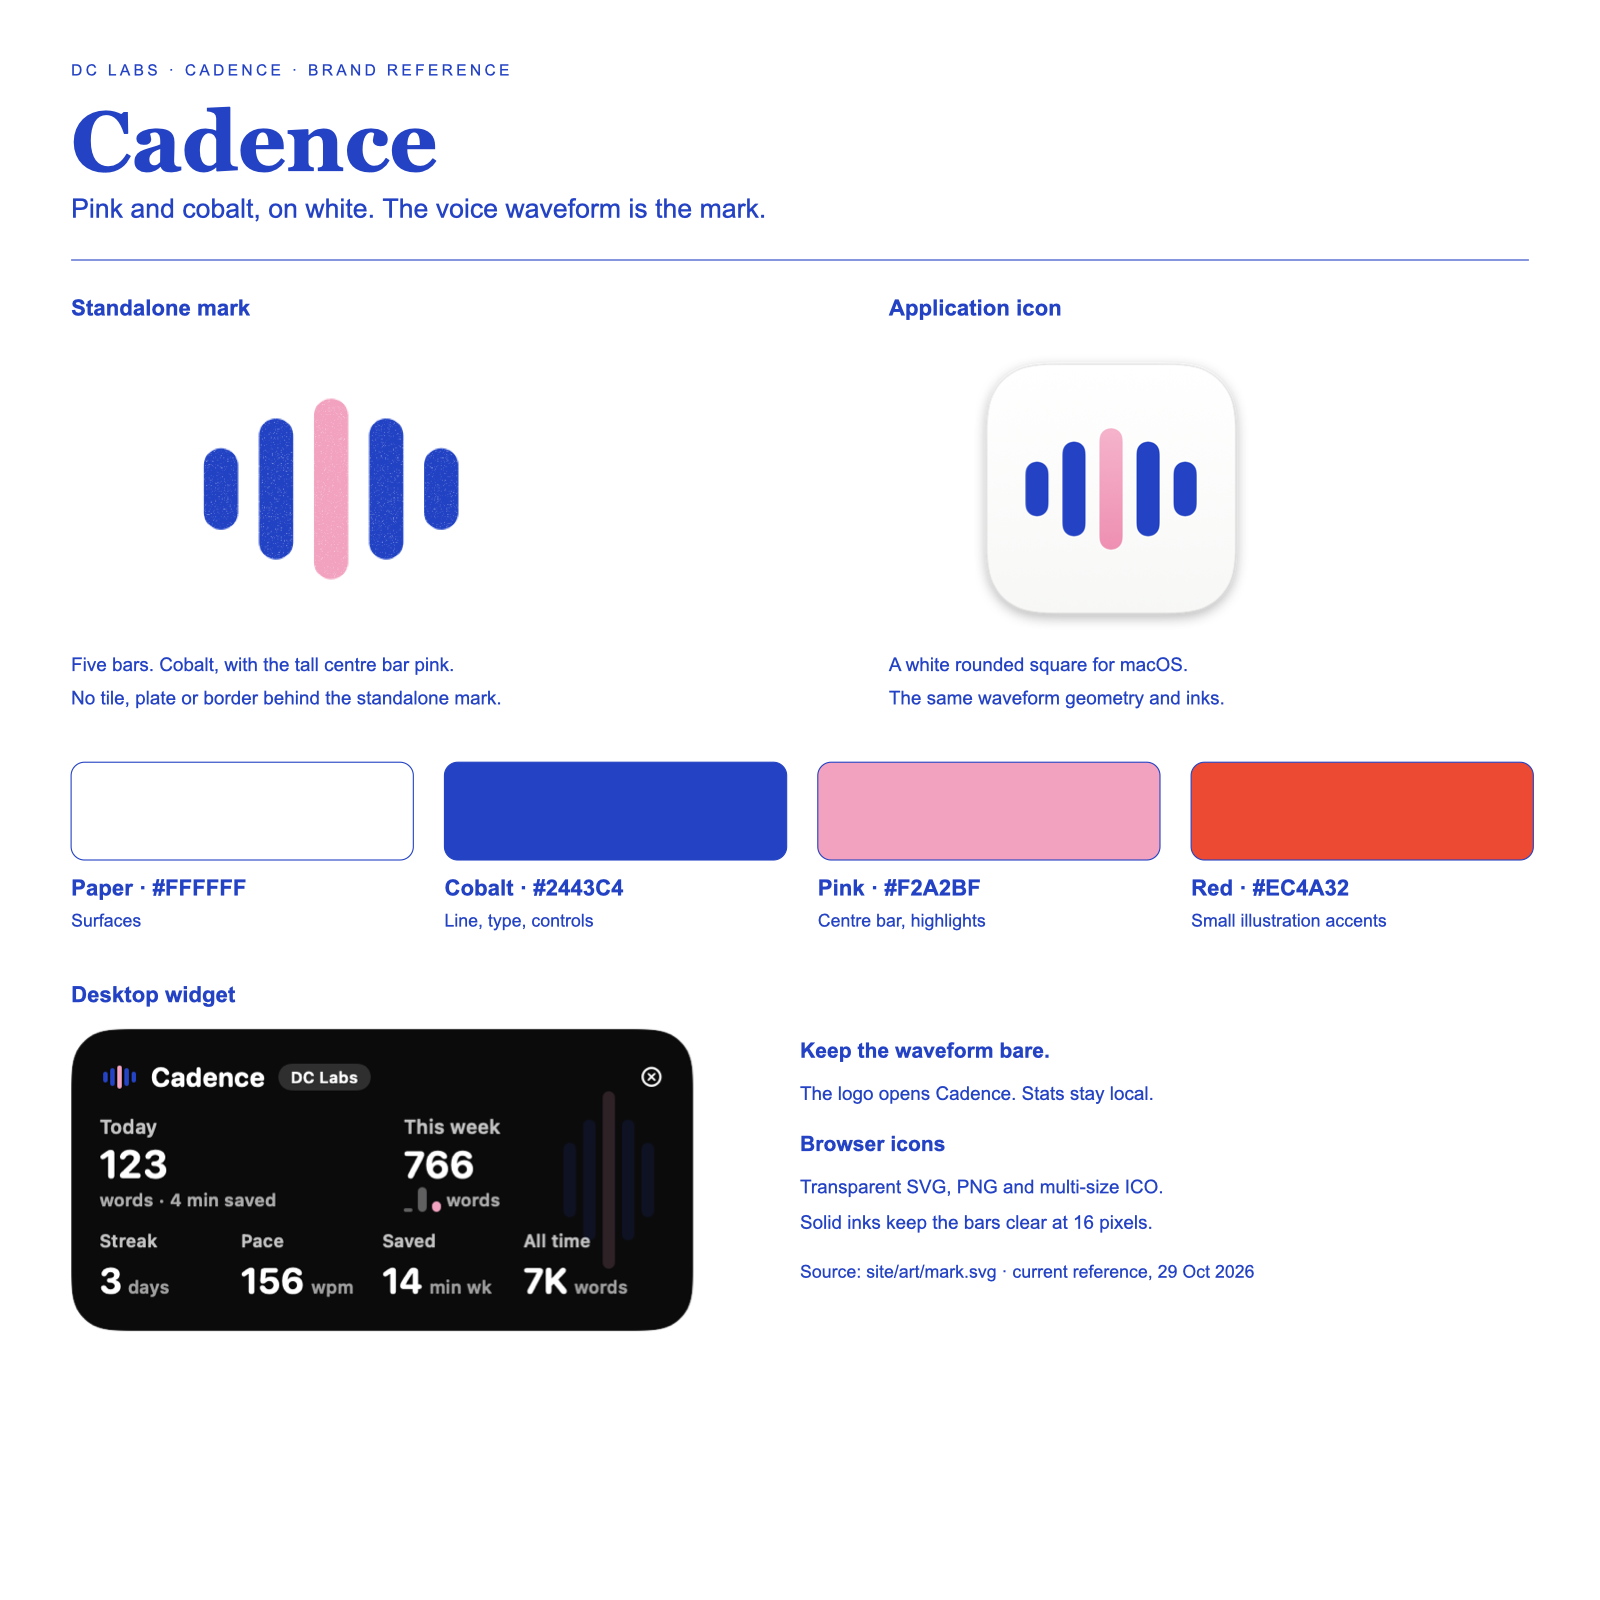
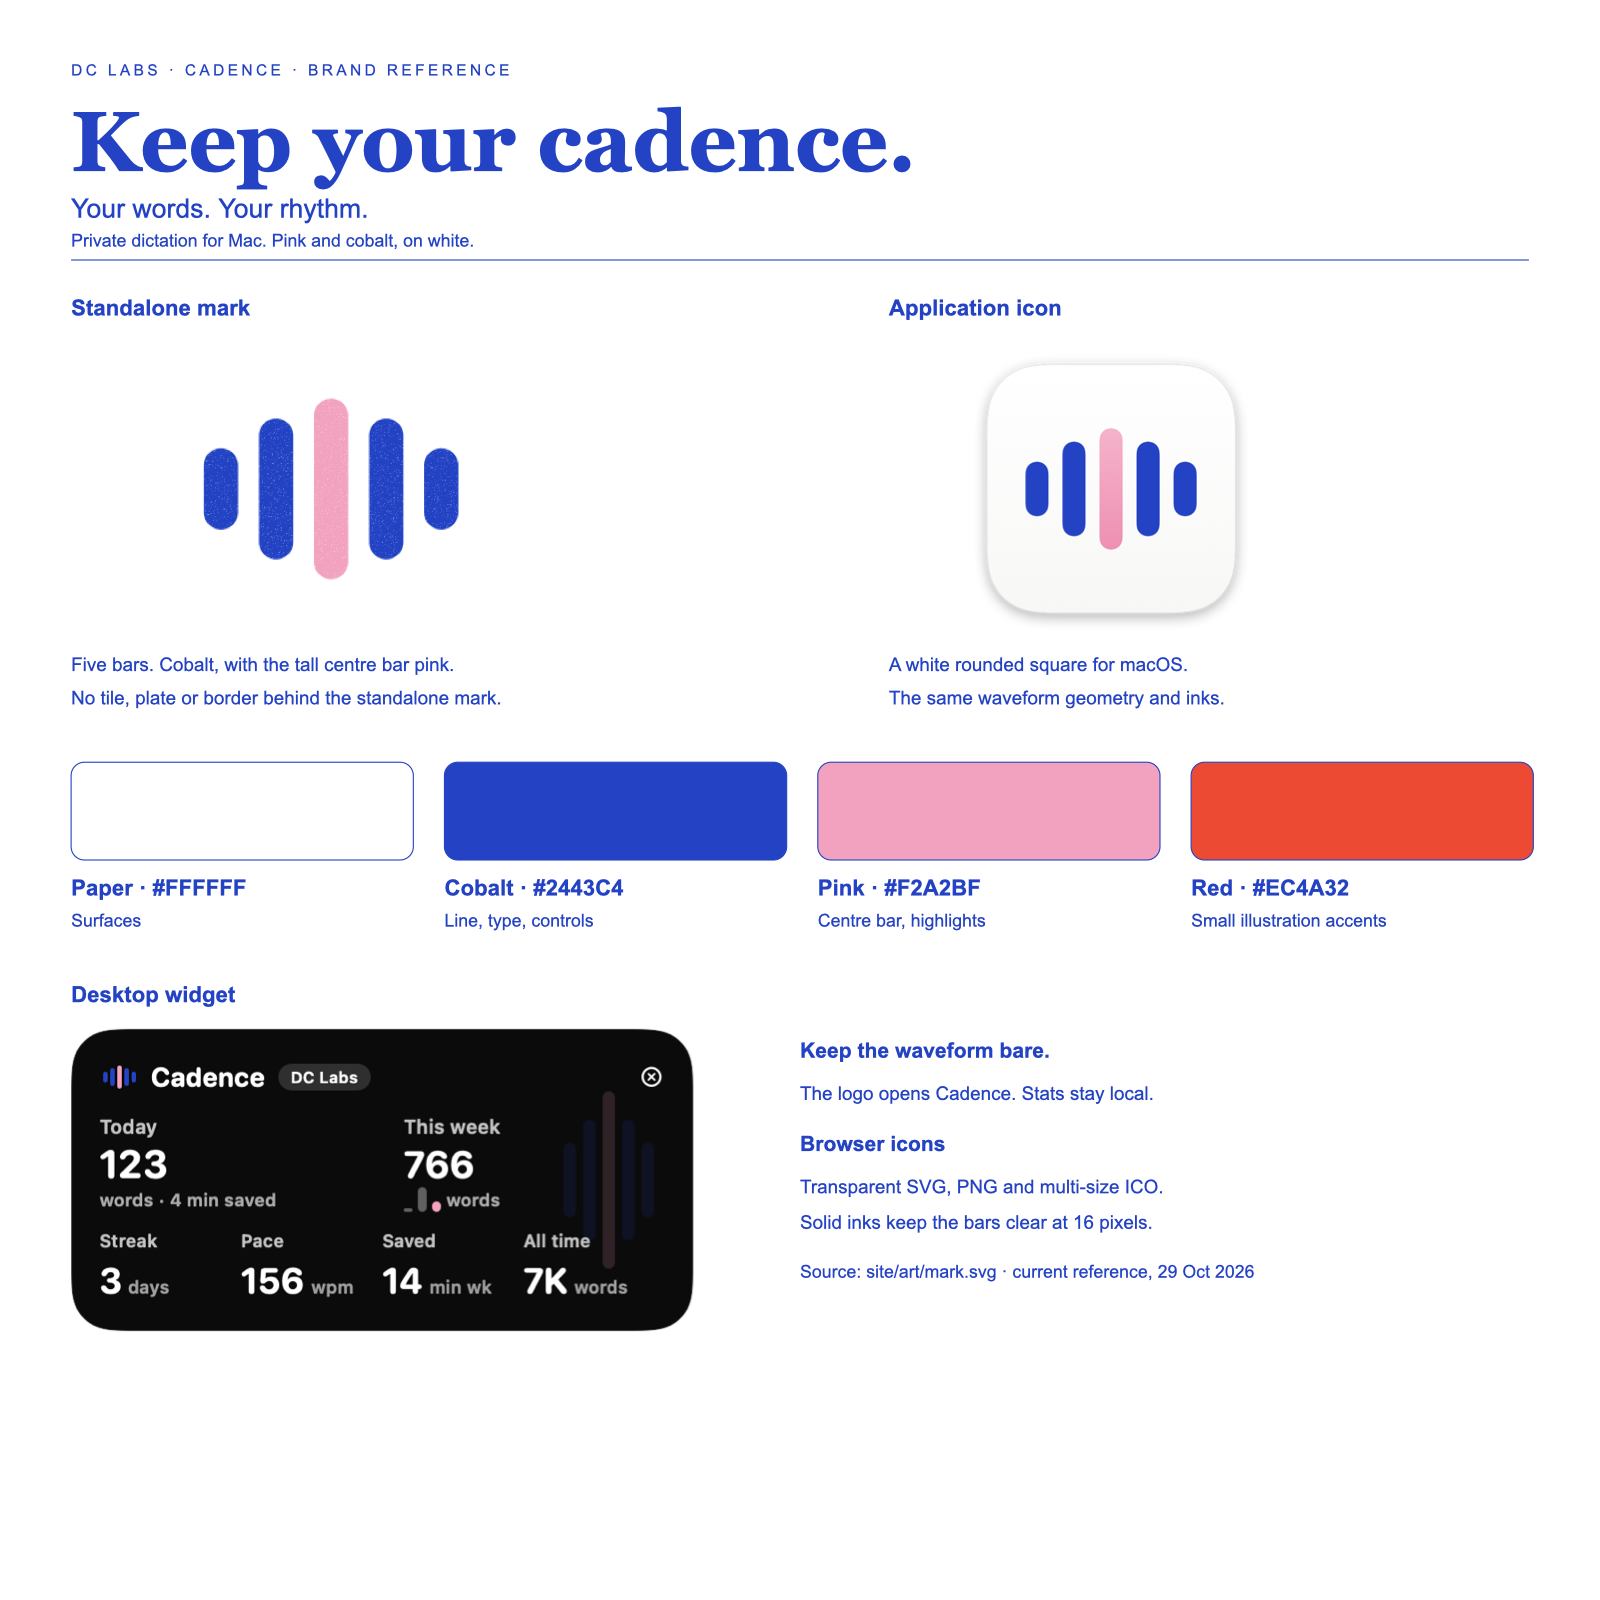
Build the Cadence voice around your words and rhythm

Changed region(s): [[0.0312, 0.0625, 0.5625, 0.1562]]

diff --git a/site/index.html b/site/index.html
@@ -3,12 +3,12 @@
 <head>
 <meta charset="utf-8">
 <meta name="viewport" content="width=device-width,initial-scale=1">
-<title>Cadence: dictation that never leaves your Mac</title>
-<meta name="description" content="Hold a key, speak, release, and the text lands wherever you're typing. Cadence transcribes on your Mac, works offline, speaks two languages and is free and open source.">
+<title>Cadence — Your words. Your rhythm.</title>
+<meta name="description" content="Your words. Your rhythm. Speak naturally and let Cadence type entirely on your Mac. Private, offline, bilingual dictation. Free and open source from DC Labs.">
 <meta name="theme-color" content="#ffffff" media="(prefers-color-scheme: light)">
 <meta name="theme-color" content="#141a3d" media="(prefers-color-scheme: dark)">
-<meta property="og:title" content="Cadence: dictation that never leaves your Mac">
-<meta property="og:description" content="On-device, offline, bilingual push-to-talk dictation for macOS. Free and open source, from DC Labs.">
+<meta property="og:title" content="Keep your cadence.">
+<meta property="og:description" content="Your words. Your rhythm. Speak naturally and let Cadence type entirely on your Mac. Private, offline, bilingual dictation. Free and open source from DC Labs.">
 <meta property="og:url" content="https://cadence-dictation.pages.dev/">
 <meta property="og:image" content="https://cadence-dictation.pages.dev/icon-512-riso-v2.png">
 <meta property="og:image:alt" content="Cadence’s cobalt waveform with a pink centre bar">
@@ -41,8 +41,8 @@
   <div class="hero-grid">
   <div class="hero-copy">
   <p class="eyebrow">DC Labs · Free &amp; open source · macOS</p>
-  <h1 id="hero-title">Speak. It types.<br><span class="circled">Nothing leaves your Mac.<svg class="scribble" viewBox="0 0 1200 600" preserveAspectRatio="none" aria-hidden="true" focusable="false"><path vector-effect="non-scaling-stroke" d="M 950 90 C 1250 300, 1050 480, 600 520 C 250 520, 150 480, 150 300 C 150 120, 350 80, 600 80 C 850 80, 950 180, 950 180"/></svg></span></h1>
-  <p class="lede">Hold a key, say what you mean, let go. Cadence turns your voice into text in whatever app you're using, transcribed entirely on your Mac. Works offline, in two languages, for free.</p>
+  <h1 id="hero-title">Keep your cadence.<br><span class="circled">Your words. Your rhythm.<svg class="scribble" viewBox="0 0 1200 600" preserveAspectRatio="none" aria-hidden="true" focusable="false"><path vector-effect="non-scaling-stroke" d="M 950 90 C 1250 300, 1050 480, 600 520 C 250 520, 150 480, 150 300 C 150 120, 350 80, 600 80 C 850 80, 950 180, 950 180"/></svg></span></h1>
+  <p class="lede">Speak naturally. Cadence turns your voice into text wherever you’re typing. Hold a key, speak, release. <strong>Nothing leaves your Mac.</strong> Works offline, in two languages, for free.</p>
   <div class="hero-actions">
     <a class="button" href="#download">Download for Mac</a>
     <a class="button ghost" href="#compare">See how it compares</a>

diff --git a/site/style.css b/site/style.css
@@ -99,7 +99,7 @@ h3 { font:700 21px/1.25 var(--serif); }
 @keyframes word { from { opacity:0; filter:blur(3px); } to { opacity:1; filter:none; } }
 @keyframes blink { 50% { opacity:0; } }
 
-/* The loop: a red pencil circle drawn once around "Nothing leaves your Mac." (stretches to the line) */
+/* The loop: a red pencil circle drawn once around "Your words. Your rhythm." (stretches to the line) */
 .hero h1 .circled { position:relative; display:inline-block; padding:.08em .22em; margin-left:-.22em; }
 .scribble { position:absolute; left:-18%; top:-34%; width:140%; height:168%; overflow:visible; pointer-events:none; }
 .scribble path { fill:none; stroke:var(--red); stroke-width:4.5px; stroke-linecap:round; stroke-linejoin:round; opacity:.92; }

diff --git a/docs/STATUS.md b/docs/STATUS.md
@@ -2,6 +2,46 @@
 
 Updated: 2026-10-29 · Phase: **1 (MVP spine)** · Blueprint: docs/CADENCE_BLUEPRINT.md
 
+## Brand voice — Keep your cadence (2026-10-29)
+
+Daniel approved **Keep your cadence.** with **Your words. Your rhythm.**
+(“yeah all of it go”). Applied the direction to the hero, page/share metadata,
+announcer ribbon, README and brand reference. The plain explanation and explicit
+“Nothing leaves your Mac” promise remain alongside the brand line.
+
+Verified: site 28/28; desktop preview and 390px/320px phone layouts inspected,
+with no horizontal overflow. This is a website/documentation update; verified
+v0.1.3 download, app branding and widget instructions remain current.
+
+## Handoff
+
+_No active handoff._
+
+## Favicon cleanup and public-download verification (2026-10-29)
+
+Completed after the quota reset. PR #59/#60 merged; main `b915874` deployed to
+`cadence-dictation`, production deployment `0f4ee3be`. All 21 public files match
+the build byte-for-byte; site 28/28 and PR CI pass. Both pages use new versioned
+cobalt/pink browser/touch/share icons. Updated brand reference no longer shows
+the obsolete boxed/red-centre mark. Existing Chrome Cadence tab was reloaded.
+
+Downloaded the actual public latest asset: v0.1.3 (5), SHA-256
[1 lines of base64/hex data omitted]
+Signature verified; bundled multilingual model matches its pin. Public app's
+appearance 10/10 and widget 16/16 pass. Pixel scans of its actual icon,
+light/dark dashboard and widget preview found no old green accents.
+
+The existing Vitals tile had one additional green element: its shared Live dot.
+Scoped it to Cadence pink (other engines keep their indicators), added four
+color checks, and confirmed a planted green regression fails. Small/Medium
+live-state renders have no green pixels. Released wow-command-center #213/#214,
+main `9079185`; production binary rebuilt, same stable signing requirement
+verified, and restarted. Shared dirty Command Center source checkout remains
+untouched; reviewed source stays in `~/ai-search-tracker-cadence-brand`.
+
+Real speech/first-install manual acceptance remains outstanding; preserve the
+original backup apps. Homepage brand-line exploration is unchanged.
+
 ## Waveform-only widget mark (2026-10-29)
 
 Daniel requested removing the white plate around the widget logo, keeping the

diff --git a/docs/brand/README.md b/docs/brand/README.md
@@ -81,8 +81,14 @@ All three are system fonts, so nothing is downloaded.
 
 ## Voice
 
-Plain and confident. Say what it does: "Speak. It types." Don't use emojis, and don't
-use exclamation marks.
+**Keep your cadence.** is the brand line. **Your words. Your rhythm.** is its
+supporting line (Daniel approved this direction on 29 Oct 2026).
+
+Explain the product plainly alongside it: “Speak naturally. Cadence types entirely
+on your Mac.” Keep the privacy promise explicit: “Nothing leaves your Mac.”
+The name connects the product to a person's own pace and voice; avoid promises
+that Cadence records or preserves the sound of their voice. Don't use emojis or
+exclamation marks.
 
 ## The app
 

diff --git a/README.md b/README.md
@@ -1,6 +1,8 @@
 # Cadence
 
-Local-first, cloud-optional, system-wide AI voice dictation for macOS.
+**Keep your cadence.** Your words. Your rhythm.
+
+Private, on-device voice dictation for macOS.
 
 Hold Right-Option, speak, release — the text lands in whatever field has focus. Transcription
 runs entirely on-device (Whisper via Metal); nothing leaves the machine, and the app contains no
